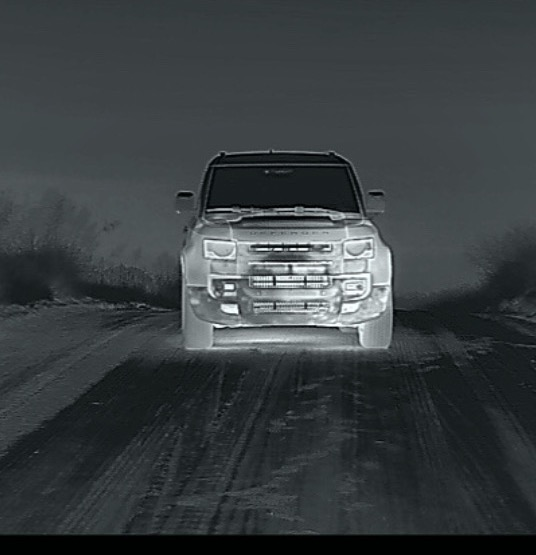
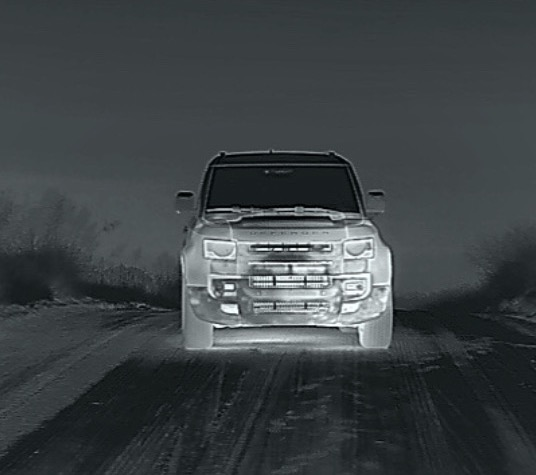
Fix NV section height + crop truck tighter + standalone photo spans 2 panels
NV: reduced photo row to 140px, tightened text, align-items:stretch
so left card and right truck match height. Truck cropped tighter.
Standalone: Josh photo now grid-column:span 2, fills full width/height.

diff --git a/index.html b/index.html
@@ -965,22 +965,22 @@ footer{background:linear-gradient(180deg,var(--navy-mid) 0%,#060e1a 100%);border
     <div style="margin-bottom:12px;"><p style="font-family:'Barlow Condensed',sans-serif;font-size:11px;font-weight:700;letter-spacing:.24em;text-transform:uppercase;color:var(--gold-dim);padding:8px 0;border-bottom:1px solid rgba(201,168,76,.15);">Tier 5 — Night Vision · Elite Tactical · $499 · All prices per person</p></div>
     <!-- ROW 1: Three NV photos across full width -->
     <div style="display:grid;grid-template-columns:repeat(3,1fr);gap:8px;margin-bottom:8px;border-radius:4px;overflow:hidden;" class="reveal">
-      <img src="images/nightvision-operators-dusk.jpg" alt="Night Vision Operators" style="width:100%;height:180px;object-fit:cover;">
-      <img src="images/nightvision-closeup-nvg.jpg" alt="NVG Close-Up" style="width:100%;height:180px;object-fit:cover;">
-      <img src="images/nightvision-suppressed-ar.jpg" alt="Night Vision Equipment" style="width:100%;height:180px;object-fit:cover;">
+      <img src="images/nightvision-operators-dusk.jpg" alt="Night Vision Operators" style="width:100%;height:140px;object-fit:cover;">
+      <img src="images/nightvision-closeup-nvg.jpg" alt="NVG Close-Up" style="width:100%;height:140px;object-fit:cover;">
+      <img src="images/nightvision-suppressed-ar.jpg" alt="Night Vision Equipment" style="width:100%;height:140px;object-fit:cover;">
     </div>
-    <!-- ROW 2: Class card left, truck panoramic right -->
-    <div style="display:grid;grid-template-columns:1fr 3fr;gap:8px;margin-bottom:24px;" class="reveal">
-      <div class="program-card">
+    <!-- ROW 2: Class card left, truck panoramic right — same height -->
+    <div style="display:grid;grid-template-columns:1fr 2fr;gap:8px;margin-bottom:24px;align-items:stretch;" class="reveal">
+      <div class="program-card" style="margin:0;display:flex;flex-direction:column;justify-content:center;">
         <div class="program-num">28</div>
         <h3>🌙 Night Vision Course</h3>
-        <p>USS Academy offers dedicated Night Vision firearms training — one of the most advanced, immersive tactical training experiences available in Florida. Learn to operate effectively with night vision optics and devices (NVDs) in a controlled, professional range environment. This course covers NVD operation, weapon mounting, zero procedures, transitional shooting, and low-light engagement fundamentals. Available for law enforcement, military, security professionals, and qualified civilians.</p>
+        <p style="font-size:12px;">USS Academy offers dedicated Night Vision firearms training — one of the most advanced tactical training experiences in Florida. NVD operation, weapon mounting, zero procedures, transitional shooting, and low-light engagement. For law enforcement, military, security professionals, and qualified civilians.</p>
         <span class="program-tag">Advanced · NVD · Tactical · $499</span>
-        <a href="https://book.stripe.com/aFa28r5KXdINecy2qo8Vi17" target="_blank" class="btn-primary" style="display:inline-block;margin-top:14px;font-size:12px;padding:10px 20px;">Register &amp; Pay — $499</a>
-        <div style="font-size:11px;font-weight:300;color:var(--silver);opacity:0.55;line-height:1.5;margin-top:10px;">All prices listed are per person. Available as Group, Semi-Private, or Private session. Contact us — <a href="tel:8005088772" style="color:var(--gold);text-decoration:none">800-508-8772</a> or <a href="mailto:support@ussacademy.org" style="color:var(--gold);text-decoration:none">support@ussacademy.org</a></div>
+        <a href="https://book.stripe.com/aFa28r5KXdINecy2qo8Vi17" target="_blank" class="btn-primary" style="display:inline-block;margin-top:10px;font-size:12px;padding:10px 20px;">Register &amp; Pay — $499</a>
+        <div style="font-size:11px;font-weight:300;color:var(--silver);opacity:0.55;line-height:1.5;margin-top:8px;">All prices listed are per person. Available as Group, Semi-Private, or Private session. Contact us — <a href="tel:8005088772" style="color:var(--gold);text-decoration:none">800-508-8772</a> or <a href="mailto:support@ussacademy.org" style="color:var(--gold);text-decoration:none">support@ussacademy.org</a></div>
       </div>
       <div style="border-radius:4px;overflow:hidden;">
-        <img src="images/thermal-vehicle-cropped.jpg" alt="Thermal Night Vision Technology" style="width:100%;height:100%;min-height:320px;object-fit:cover;object-position:center;display:block;">
+        <img src="images/thermal-vehicle-cropped.jpg" alt="Thermal Night Vision Technology" style="width:100%;height:100%;object-fit:cover;object-position:center;display:block;">
       </div>
     </div>
 
@@ -1023,8 +1023,8 @@ footer{background:linear-gradient(180deg,var(--navy-mid) 0%,#060e1a 100%);border
         <a href="https://book.stripe.com/dRm4gzddpfQVfgC0ig8Vi1h" target="_blank" class="btn-primary" style="display:inline-block;margin-top:14px;font-size:12px;padding:10px 20px;">Book a Call — $75</a>
         <div style="font-size:11px;font-weight:300;color:var(--silver);opacity:0.55;line-height:1.5;margin-top:10px;">All prices listed are per person. Available as Group, Semi-Private, or Private session. Contact us — <a href="tel:8005088772" style="color:var(--gold);text-decoration:none">800-508-8772</a> or <a href="mailto:support@ussacademy.org" style="color:var(--gold);text-decoration:none">support@ussacademy.org</a></div>
       </div>
-      <div class="program-card" style="display:flex;align-items:center;justify-content:center;padding:0;overflow:hidden;min-height:200px;">
-        <img src="images/_DSC2621.jpg" alt="Josh Rodriguez — USS Academy Tactical Instructor" style="width:100%;height:320px;object-fit:cover;object-position:center top;">
+      <div class="program-card" style="grid-column:span 2;padding:0;overflow:hidden;">
+        <img src="images/_DSC2621.jpg" alt="Josh Rodriguez — USS Academy Tactical Instructor" style="width:100%;height:100%;min-height:100%;object-fit:cover;object-position:center top;display:block;">
       </div>
     </div>
 
